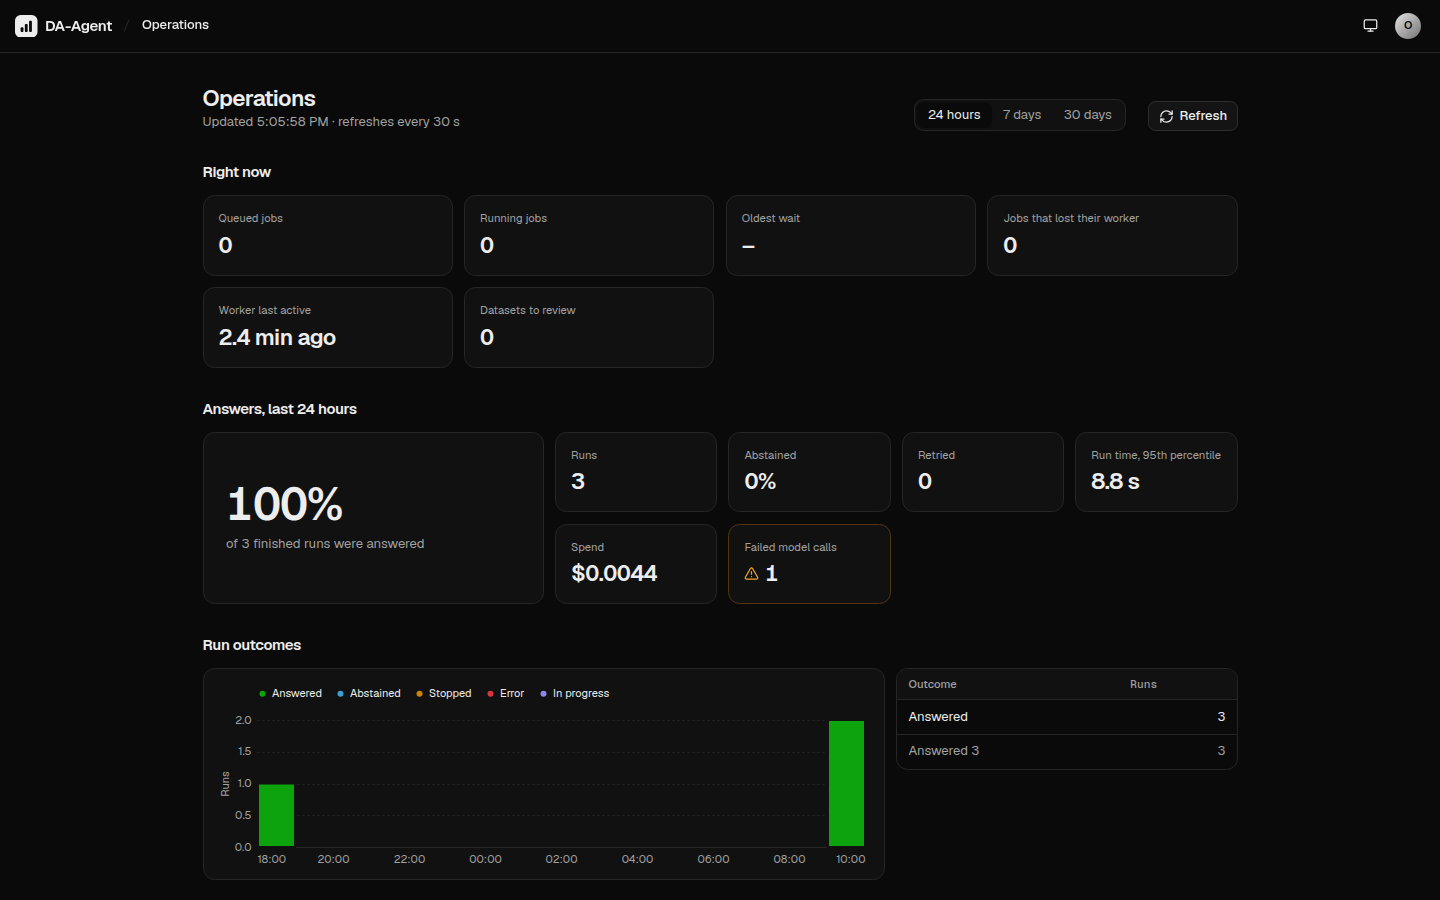
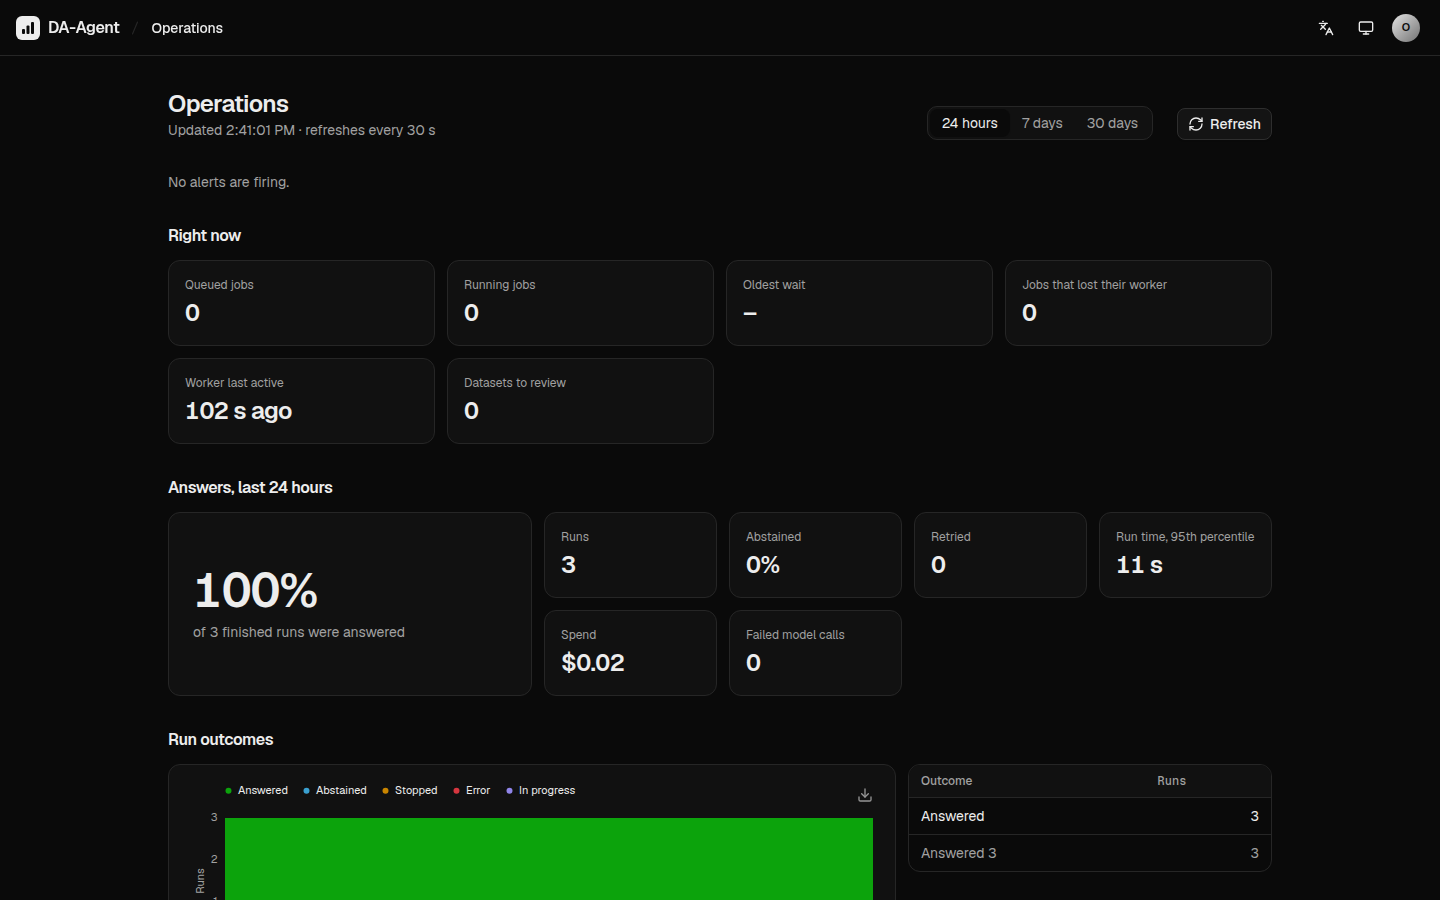
docs: refresh the README, screenshots, and narrated demo video
Add a stack line and explain the score scale where it first appears; fix
the ADR and test counts. Move the dataset deletion details from the README
to docs/operations.md and drop How it works bullets that repeated the
highlights. New screenshots and a re-recorded narrated video from the
demo shop. Progress records a gap: Vietnamese chart requests drew a chart
in 1 of 3 runs.

diff --git a/README.md b/README.md
@@ -7,13 +7,16 @@
 
 An open-source agent that analyses uploaded CSV, Excel, and SQLite files. You upload data with a
 free-form description and ask questions. It answers with results you can trace back to the queries
-that produced them.
+that produced them. The UI is in English and Vietnamese.
+
+**Stack:** Python 3.12, LangGraph with a Postgres checkpointer, FastAPI, Pydantic, DuckDB, sqlglot,
+Vega-Lite, React with Vite and TypeScript, OpenTelemetry with Phoenix, Prometheus, Docker Compose.
 
 > **Status:** a learning and portfolio project, complete for its plan: agent, ingestion, sandbox,
 > HTTP API, web UI, operator dashboard, and Docker Compose packaging work and are tested. It has not
 > run in production.
 
-https://github.com/user-attachments/assets/dc2bf6b4-7ae1-4237-b2e6-f531cc7c8d34
+https://github.com/user-attachments/assets/778b628c-d963-4e9e-9d9c-96c050f006b6
 
 *A 2½-minute narrated walkthrough: upload a café's sales export, review the proposed spec, ask
 questions in English and Vietnamese, and see the SQL behind each answer.*
@@ -33,10 +36,10 @@ questions in English and Vietnamese, and see the SQL behind each answer.*
 
 ## Highlights
 
-- **Measured on unseen data.** On 150 questions from 6 shops held out from development and run
-  once, 60% correct and 9% abstained, at about $0.002 and 6 seconds (median) per question with
-  `gpt-oss-20b`. A wrong answer costs a point, so the agent abstains rather than guess
-  ([Evaluation](#evaluation)).
+- **Measured on unseen data.** Scores are +1 per correct answer, −1 per wrong one, and 0 per
+  abstention, so the agent abstains rather than guess. On 150 questions from 6 shops held out from
+  development and run once (v0.1.0), 60% correct and 9% abstained, at about $0.002 and 6 seconds
+  (median) per question with `gpt-oss-20b` ([Evaluation](#evaluation)).
 - **Generated code never runs on the host.** File parsing and every SQL query run in containers
   without network or secrets, behind a read-only SQL guard. Escape attempts are tests.
 - **Answers are checked by code, not by another model.** Numbers must come from query results,
@@ -47,8 +50,8 @@ questions in English and Vietnamese, and see the SQL behind each answer.*
   breaker for model providers, cancel, and deadlines.
 - **Operable.** OpenTelemetry traces, a cost ledger per model call, an audit log, an operator
   dashboard, and Prometheus SLO alerts.
-- **Decisions on record.** 49 [architecture decision records](docs/adr/README.md), a
-  [threat model](docs/threat-model.md), and about 1,800 Python and 160 web tests in CI.
+- **Decisions on record.** 50 [architecture decision records](docs/adr/README.md), a
+  [threat model](docs/threat-model.md), and about 1,900 Python and 160 web tests in CI.
 
 What measuring taught: the largest gain came from data preparation, not from the agent. Removing
 double entries that code can prove took one shop's score from −11 to +13, while the LangGraph
@@ -101,14 +104,6 @@ flowchart LR
     worker --> llm["LLMClient"] --> providers(("Model<br/>providers"))
     worker -- "one SQL query" --> runner["Runner"] --> sandbox["Sandbox<br/>DuckDB, no network,<br/>read-only dataset"]
 ```
-
-**Deleting a dataset.** `DELETE /v1/datasets/{id}` (the "Delete dataset" button) hides the dataset at
-once and queues a background job that removes its uploaded files, builds, export files, agent
-checkpoints, and every row about it: runs, answers, reports, queries, conversations, notes, and
-metrics. Deletion is final. It keeps the spend ledger (`llm_calls`) and the audit log, which hold
-no data values. It does not cover Phoenix traces, which expire with Phoenix's own retention, container
-logs, or golden rerun reports an operator wrote under `data_dir/goldens/`
-([ADR 0050](docs/adr/0050-dataset-deletion.md)).
 
 The same system drawn as one bench, with numbers that follow a question through it:
 
@@ -169,13 +164,9 @@ flowchart LR
 - **Results leave in full.** A query's whole result downloads as CSV (up to 1,000,000 rows),
   re-run in a sandbox from the stored query; charts download as PNG or SVG
   ([ADR 0032](docs/adr/0032-result-export.md)).
-- **Runs survive crashes and stay within budget.** Every model turn is a Postgres checkpoint, so a
-  killed worker's run continues without repeating finished steps. Token and money limits apply per
-  run and per workspace.
-- **Operable.** OpenTelemetry traces in Phoenix, a cost ledger per model call, an audit log, and an
-  operator dashboard for queue health, outcomes, latency, model errors, and cost.
-- **Measured.** An evaluation harness with a separate scorer process, fixed dev and holdout
-  splits, and a cost report for every run. See [Evaluation](#evaluation).
+- **Deleting a dataset removes it everywhere the app stores it**: files, builds, checkpoints, and
+  every row about it. Only the spend ledger and audit log stay
+  ([Operations](docs/operations.md#deleting-a-dataset)).
 
 ## Evaluation
 

diff --git a/docs/progress.md b/docs/progress.md
@@ -1,6 +1,6 @@
 # Progress
 
-Loaded into every session; keep it under 60 lines and replace stale content. **Last updated:** 2026-11-24 (dataset deletion)
+Loaded into every session; keep it under 60 lines and replace stale content. **Last updated:** 2026-11-25 (README, screenshots, demo video)
 **Phase:** optimisation. Challenge rules: ≤15B params in total, offline Docker, 2×5090, 6 h,
 re-run must match ±0.03 PA; Groq `gpt-oss-20b` (21B, API) is not allowed for the submission.
 
@@ -18,14 +18,14 @@ re-run must match ±0.03 PA; Groq `gpt-oss-20b` (21B, API) is not allowed for th
   (Groq +55). Then status variants and line-vs-header revenue (~12, checked by hand SQL), debt
   4, budget abstains 8 (SQLite functions, made-up columns). Semantic layer: private folder.
 ## Next step
-- **Dataset deletion** (ADR 0050, note 27, design doc): on `main` (not pushed); checked in the
+- **Dataset deletion** (ADR 0050, note 27, design doc): on `main`; checked in the
   running app (UI delete, a run stopped mid-call, rows and folders gone, spend and audit kept).
   Phoenix traces and golden rerun reports are not deleted (threat model).
 - **Garbled tool calls** (ADR 0049): adapter reads back `X<|channel|>...`, one
   retry per turn. `regression` +61 -> **+67** (102/35/13, $0.280), stops 7 -> 2, 64 read back.
 - **One-shot baseline** (ADR 0048): +40, then +42 after 0049 (its rejects are real `run_sql`
   wishes); gap to the agent is mostly coverage. ADR 0047 no harm. Open: `LIMIT 1` ties.
-- **Vietnamese UI** on `main` (ADR 0046, note 25; not pushed): Tiếng Việt option, typed
+- **Vietnamese UI** on `main` (ADR 0046, note 25): Tiếng Việt option, typed
   dictionaries in `web/src/i18n`, API error `code`/`params`. Column descriptions stay English.
 - **Answer language** on `main` (ADR 0047): a Vietnamese question gets `reason` and
   `clarify_question` in Vietnamese, decided by code. Add files: on `main` (ADR 0045).
@@ -34,8 +34,8 @@ re-run must match ±0.03 PA; Groq `gpt-oss-20b` (21B, API) is not allowed for th
    built on a branch and removed (ADR 0037): `gpt-oss-20b` never flagged the ambiguity (4 real
    runs). Users: non-technical first; UI in English.
    Harness track done (ADRs 0038–0044, notes 17–23): manifest, record/replay, pass^k (one-run
-   gains under ~9 points are noise), breaker, cancel and deadline, feedback, SLOs and alerts.
-   Later: an LLM judge checked against feedback.
+   gains under ~9 points are noise), breaker, cancel and deadline, feedback, SLOs and alerts;
+   later, an LLM judge checked against feedback.
 1. v0.1.0 released (ADR 0028); holdout ran once (+44, never rerun). Open: an absent `product_id`
    guessed (run 97d7bc1f; a UI guardrail); `\uXXXX` escapes in SQL text (2 runs in all reports).
 ## Baselines (Groq `gpt-oss-20b`, before 559f88a): `regression` +53 (93/40/17), holdout +44.
@@ -50,8 +50,9 @@ re-run must match ±0.03 PA; Groq `gpt-oss-20b` (21B, API) is not allowed for th
 ## Waiting on the user
 - No rows, questions, rulebook, or answers in any commit or image (organiser rules). When the
   challenge ends: delete `train/`, `eval/reports/`, and Docker volumes with eval data.
-## Spend so far: about $4.02 (agent runs $3.38, spec proposals $0.57, demos and e2e $0.05).
-- Demo video (2026-11-22, not in the repo): re-record once open items are fixed.
+## Spend so far: about $4.03 (agent runs $3.38, spec proposals $0.57, demos and e2e $0.07).
+- Demo video re-recorded 2026-11-25 (Kokoro narration, synced) and linked in the README.
+- Open: Vietnamese chart requests drew a chart in 1 of 3 Groq runs (`make_chart` text is English).
 ## Watch out
 - 30 questions on Groq cost about $0.05–0.10, and results vary run to run: compare totals.
   Scorer: a wrong `type` is wrong; table columns match by name only if all names match.

diff --git a/docs/operations.md b/docs/operations.md
@@ -1,7 +1,7 @@
 # Operations
 
 How to run the backend for development without Compose, and the operator tools: time travel over
-checkpoints, golden reruns, SLO alerts, and traces. The [README](../README.md) covers the Compose
+checkpoints, golden reruns, dataset deletion, SLO alerts, and traces. The [README](../README.md) covers the Compose
 quick start.
 
 ## Running the backend without Compose
@@ -56,6 +56,16 @@ Answers users rated 👍 become golden cases, which operators rerun after a chan
 uv run python -m da_agent.goldens list --workspace $WORKSPACE      # cases and runs rated 👎
 uv run python -m da_agent.goldens run --workspace $WORKSPACE --yes # same / changed / error
 ```
+
+## Deleting a dataset
+
+`DELETE /v1/datasets/{id}` (the "Delete dataset" button) hides the dataset at once and queues a
+background job that removes its uploaded files, builds, export files, agent checkpoints, and every
+row about it: runs, answers, reports, queries, conversations, notes, and metrics. Deletion is final.
+It keeps the spend ledger (`llm_calls`) and the audit log, which hold no data values. It does not
+cover Phoenix traces, which expire with Phoenix's own retention, container logs, or golden rerun
+reports an operator wrote under `data_dir/goldens/`
+([ADR 0050](adr/0050-dataset-deletion.md)).
 
 ## SLOs and alerts
 
